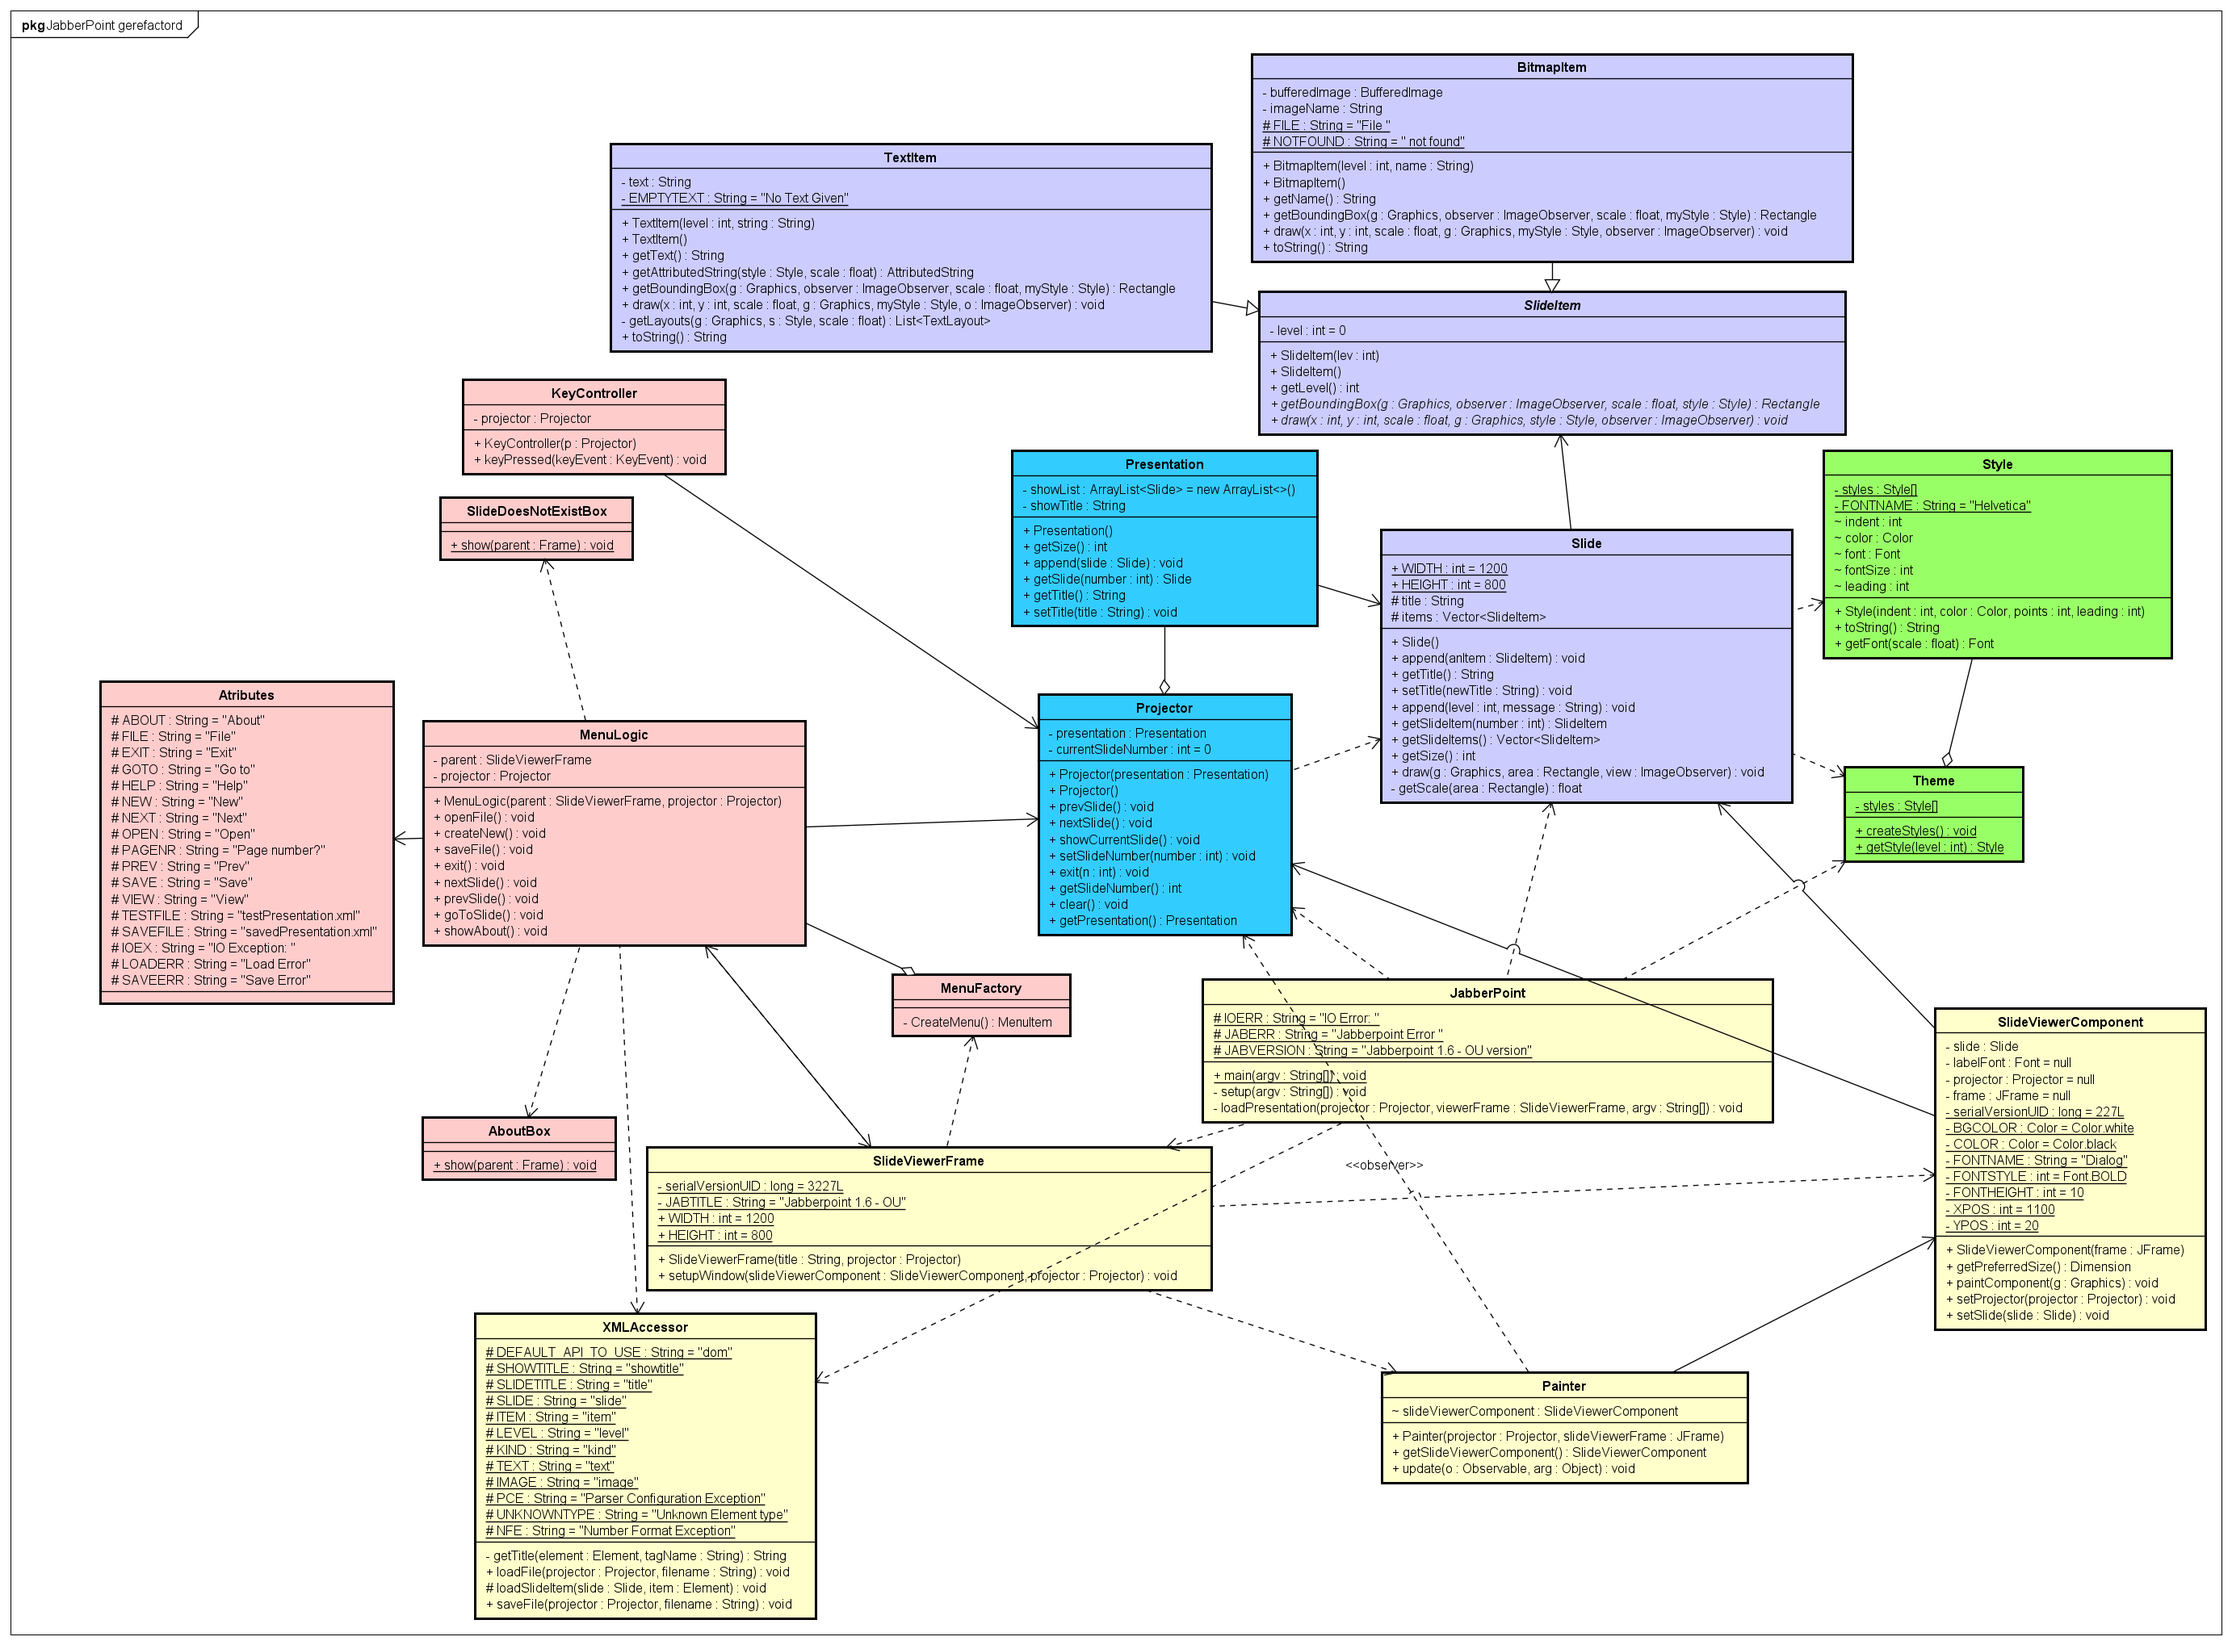
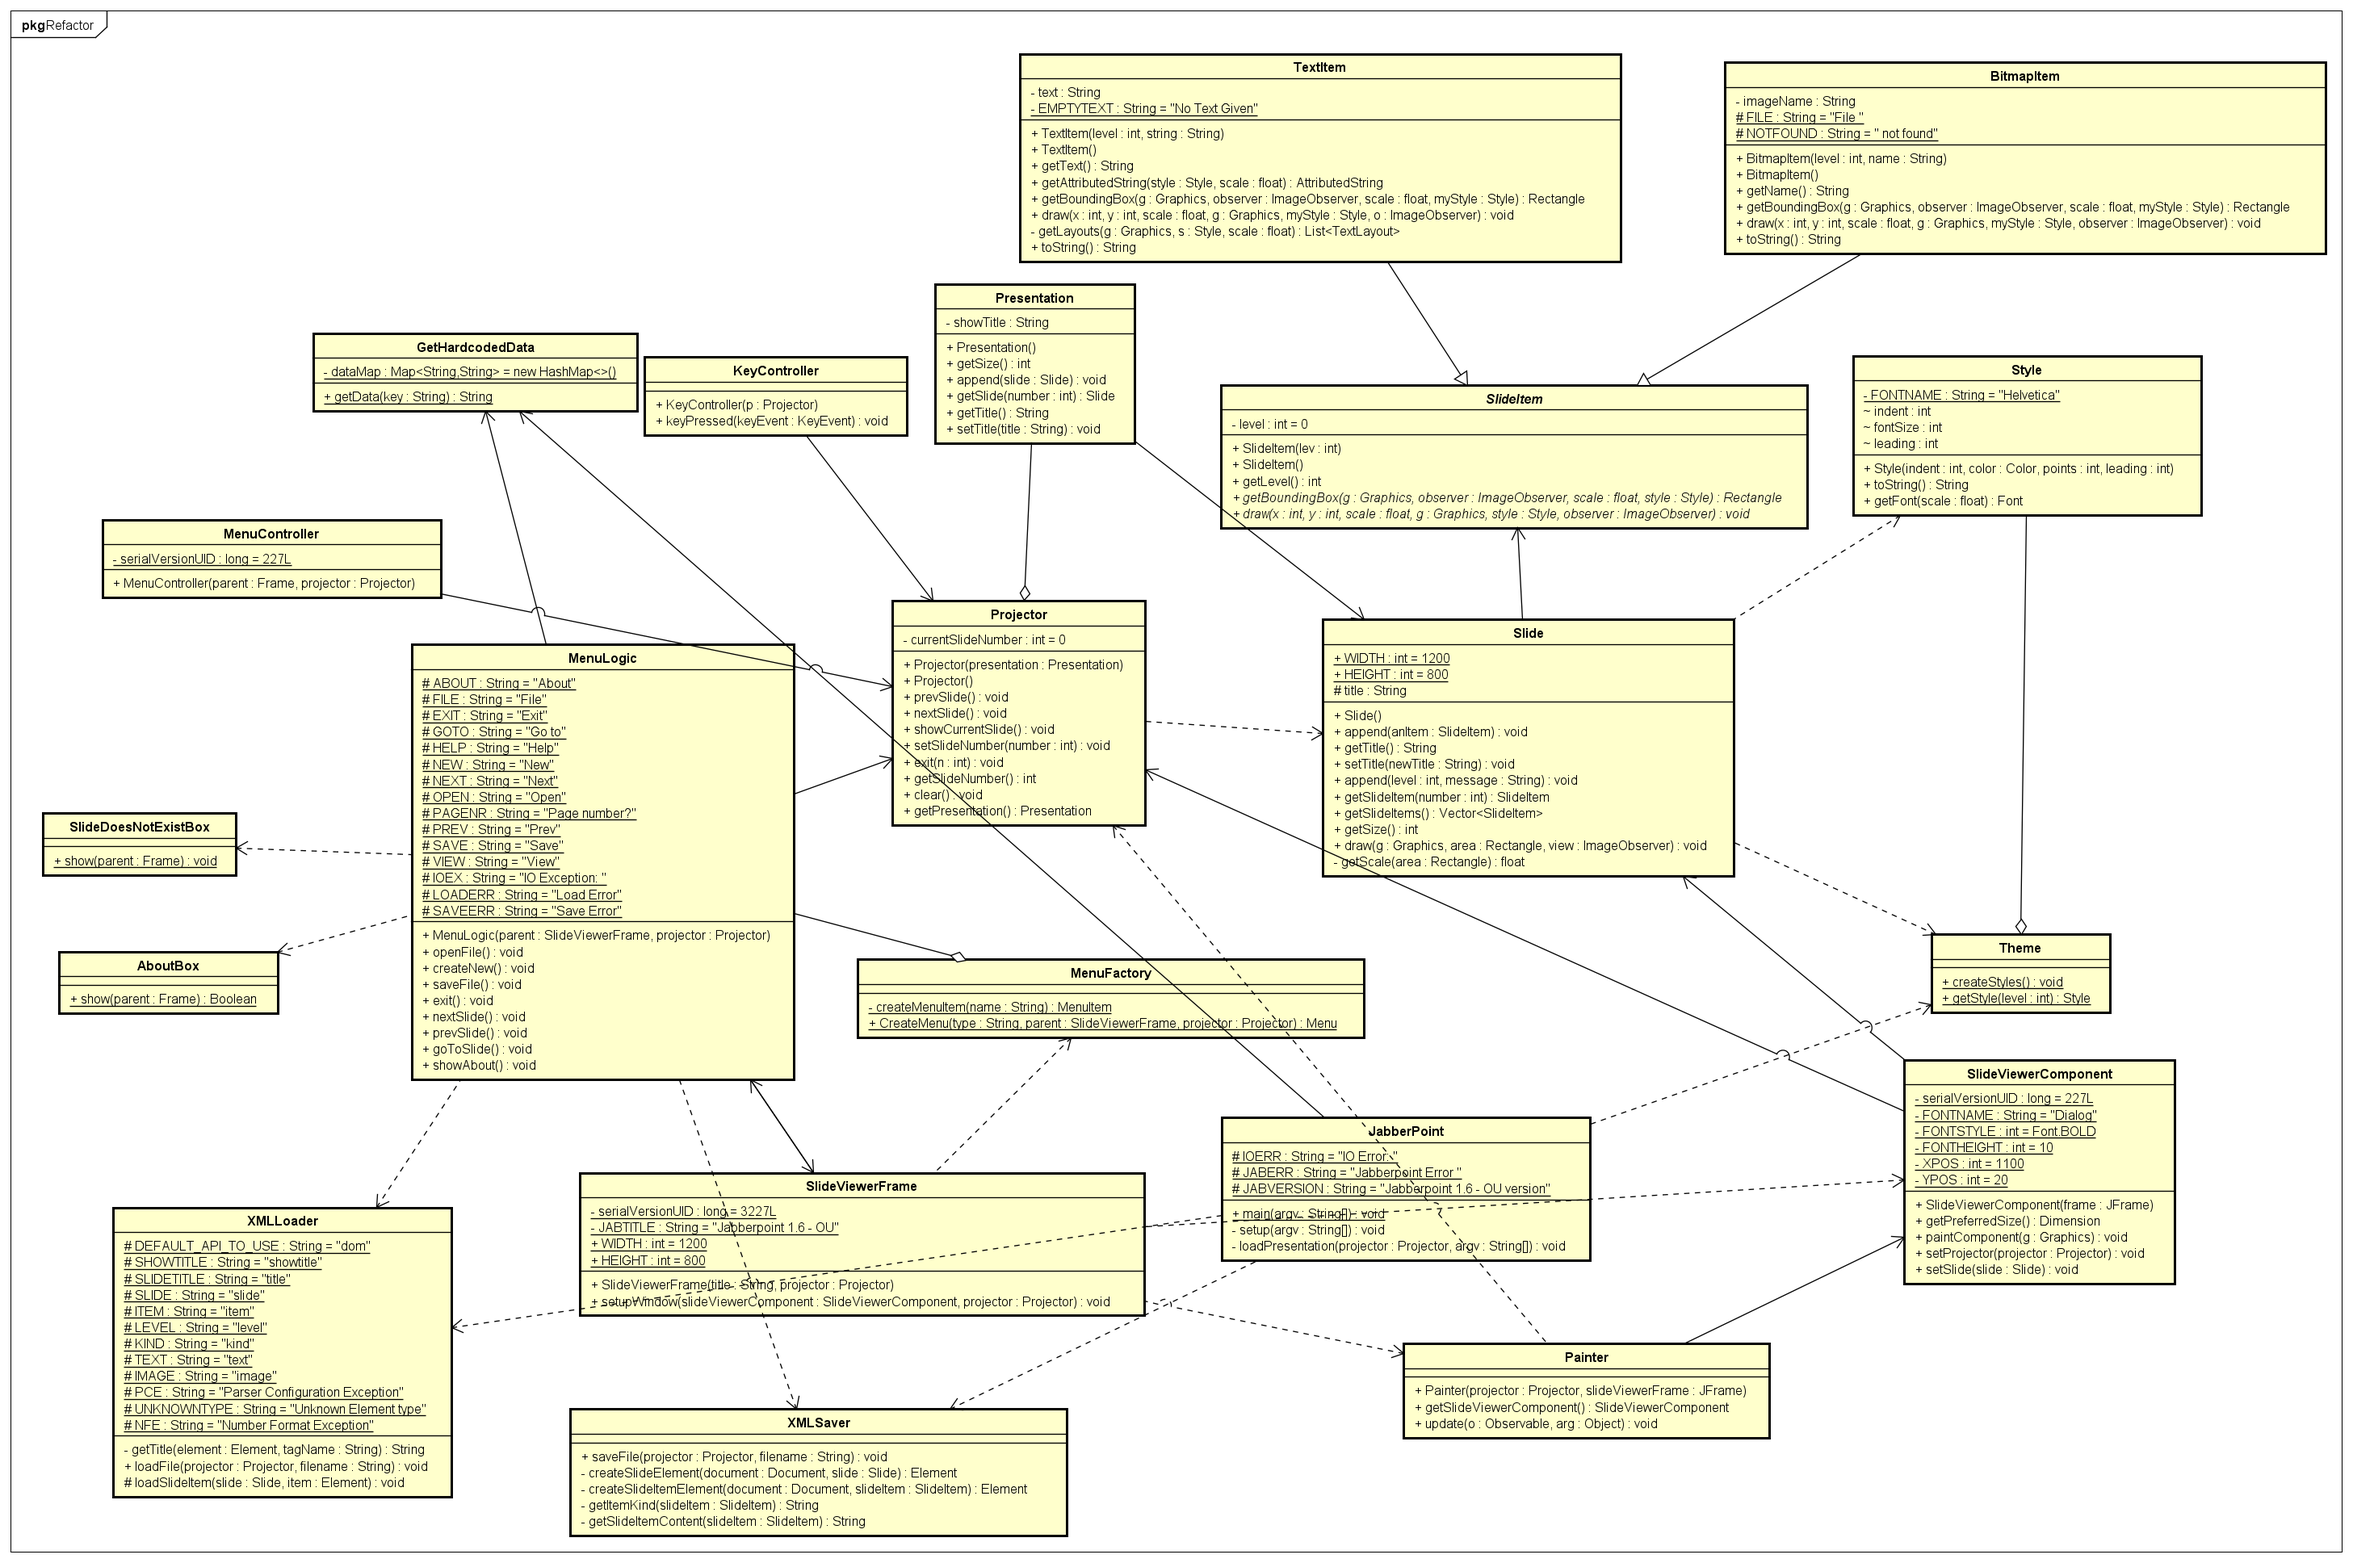
Made some things better readable

diff --git a/src/Menustuff/MenuController.java b/src/Menustuff/MenuController.java
@@ -1,4 +1,4 @@
-package menustuff;
+package Menustuff;
 
 import Presentationstuff.Projector;
 import Slidestuff.SlideViewerFrame;
@@ -6,7 +6,7 @@ import Slidestuff.SlideViewerFrame;
 import java.awt.MenuBar;
 import java.awt.Frame;
 
-import static menustuff.MenuAttributes.*;
+
 
 
 /**
@@ -16,14 +16,11 @@ import static menustuff.MenuAttributes.*;
  * @version 1.6 2014/05/16 Sylvia Stuurman
  */
 public class MenuController extends MenuBar {
-    public static final String TESTFILE = "testPresentation.xml";
-    public static final String SAVEFILE = "savedPresentation.xml";
-
     private static final long serialVersionUID = 227L;
 
     public MenuController(Frame parent, Projector projector) {
-        add(MenuFactory.CreateMenu(FILE, (SlideViewerFrame) parent, projector));
-        add(MenuFactory.CreateMenu(VIEW, (SlideViewerFrame) parent, projector));
-        setHelpMenu(MenuFactory.CreateMenu(HELP, (SlideViewerFrame) parent, projector));
+        add(MenuFactory.CreateMenu("File", (SlideViewerFrame) parent, projector));
+        add(MenuFactory.CreateMenu("View", (SlideViewerFrame) parent, projector));
+        setHelpMenu(MenuFactory.CreateMenu("Help", (SlideViewerFrame) parent, projector));
     }
 }

diff --git a/src/Slidestuff/XMLSaver.java b/src/Slidestuff/XMLSaver.java
@@ -34,31 +34,6 @@ import org.w3c.dom.NodeList;
 
 public class XMLSaver
 {
-	/** Default API to use. */
-	protected static final String DEFAULT_API_TO_USE = "dom";
-
-	/** Names of xml tags of attributes */
-	protected static final String SHOWTITLE = "showtitle";
-	protected static final String SLIDETITLE = "title";
-	protected static final String SLIDE = "slide";
-	protected static final String ITEM = "item";
-	protected static final String LEVEL = "level";
-	protected static final String KIND = "kind";
-	protected static final String TEXT = "text";
-	protected static final String IMAGE = "image";
-
-	/** Text of messages */
-	protected static final String PCE = "Parser Configuration Exception";
-	protected static final String UNKNOWNTYPE = "Unknown Element type";
-	protected static final String NFE = "Number Format Exception";
-
-
-	private String getTitle(Element element, String tagName) {
-		NodeList titles = element.getElementsByTagName(tagName);
-		return titles.item(0).getTextContent();
-
-	}
-
 	public void saveFile(Projector projector, String filename) throws IOException {
 		try {
 			DocumentBuilderFactory documentFactory = DocumentBuilderFactory.newInstance();

diff --git a/src/Presentationstuff/Projector.java b/src/Presentationstuff/Projector.java
@@ -12,13 +12,11 @@ public class Projector extends Observable {
 
     public Projector(Presentation presentation/*, Menu.SlideViewerComponent slideViewComponent*/) {
         this.presentation = presentation;
-        //this.slideViewComponent = slideViewComponent;
     }
 
     public Projector()
     {
         this.presentation = new Presentation();
-        //slideViewComponent = null;
     }
 
     // Navigate to the previous slide
@@ -40,9 +38,6 @@ public class Projector extends Observable {
     // Show the current slide
     public void showCurrentSlide() {
         Slide currentSlide = presentation.getSlide(currentSlideNumber);
-        /*if (slideViewComponent != null && currentSlide != null) {
-            slideViewComponent.update(this, currentSlide);
-        }*/
         setChanged();
         notifyObservers(currentSlide);
     }

diff --git a/src/Slidestuff/Painter.java b/src/Slidestuff/Painter.java
@@ -22,13 +22,11 @@ public class Painter implements Observer {
     public void update(Observable o, Object arg) {
         Slide data = (Slide) arg;
         if (data == null) {
-            //repaint();
             return;
         }
         Projector projector = (Projector) o;
         slideViewerComponent.setProjector(projector);
         slideViewerComponent.setSlide(data);
         slideViewerComponent.repaint();
-        //frame.setTitle(projector.getPresentation().getTitle());
     }
 }

diff --git a/src/Slidestuff/SlideViewerFrame.java b/src/Slidestuff/SlideViewerFrame.java
@@ -1,9 +1,9 @@
 package Slidestuff;
 
 import Presentationstuff.Projector;
-import menustuff.KeyController;
-import menustuff.MenuController;
-import menustuff.MenuLogic;
+import Menustuff.KeyController;
+import Menustuff.MenuController;
+import Menustuff.MenuLogic;
 
 import java.awt.Dimension;
 import java.awt.event.WindowEvent;

diff --git a/src/JabberPoint.java b/src/JabberPoint.java
@@ -1,9 +1,8 @@
 import Slidestuff.SlideViewerFrame;
 import Slidestuff.XMLLoader;
-import Slidestuff.XMLSaver;
 import Presentationstuff.Projector;
 import Stylestuff.Theme;
-import menustuff.GetHardcodedData;
+import Menustuff.GetHardcodedData;
 
 import javax.swing.JOptionPane;
 import java.io.IOException;

diff --git a/src/Slidestuff/SlideViewerComponent.java b/src/Slidestuff/SlideViewerComponent.java
@@ -40,7 +40,6 @@ public class SlideViewerComponent extends JComponent {
 
 	public SlideViewerComponent(JFrame frame) {
 		setBackground(BGCOLOR);
-		//projector = proj;
 		labelFont = new Font(FONTNAME, FONTSTYLE, FONTHEIGHT);
 		this.frame = frame;
 	}

diff --git a/src/Menustuff/MenuLogic.java b/src/Menustuff/MenuLogic.java
@@ -1,4 +1,4 @@
-package menustuff;
+package Menustuff;
 
 import Presentationstuff.Projector;
 import Slidestuff.SlideDoesNotExistBox;

diff --git a/src/Menustuff/MenuFactory.java b/src/Menustuff/MenuFactory.java
@@ -1,4 +1,4 @@
-package menustuff;
+package Menustuff;
 
 import Presentationstuff.Projector;
 import Slidestuff.SlideViewerFrame;

diff --git a/src/Menustuff/AboutBox.java b/src/Menustuff/AboutBox.java
@@ -1,4 +1,4 @@
-package menustuff;
+package Menustuff;
 
 import java.awt.Frame;
 import javax.swing.JOptionPane;

diff --git a/src/Menustuff/GetHardcodedData.java b/src/Menustuff/GetHardcodedData.java
@@ -1,4 +1,4 @@
-package menustuff;
+package Menustuff;
 
 import java.util.HashMap;
 import java.util.Map;

diff --git a/src/Menustuff/KeyController.java b/src/Menustuff/KeyController.java
@@ -1,4 +1,4 @@
-package menustuff;
+package Menustuff;
 
 import Presentationstuff.Projector;
 
